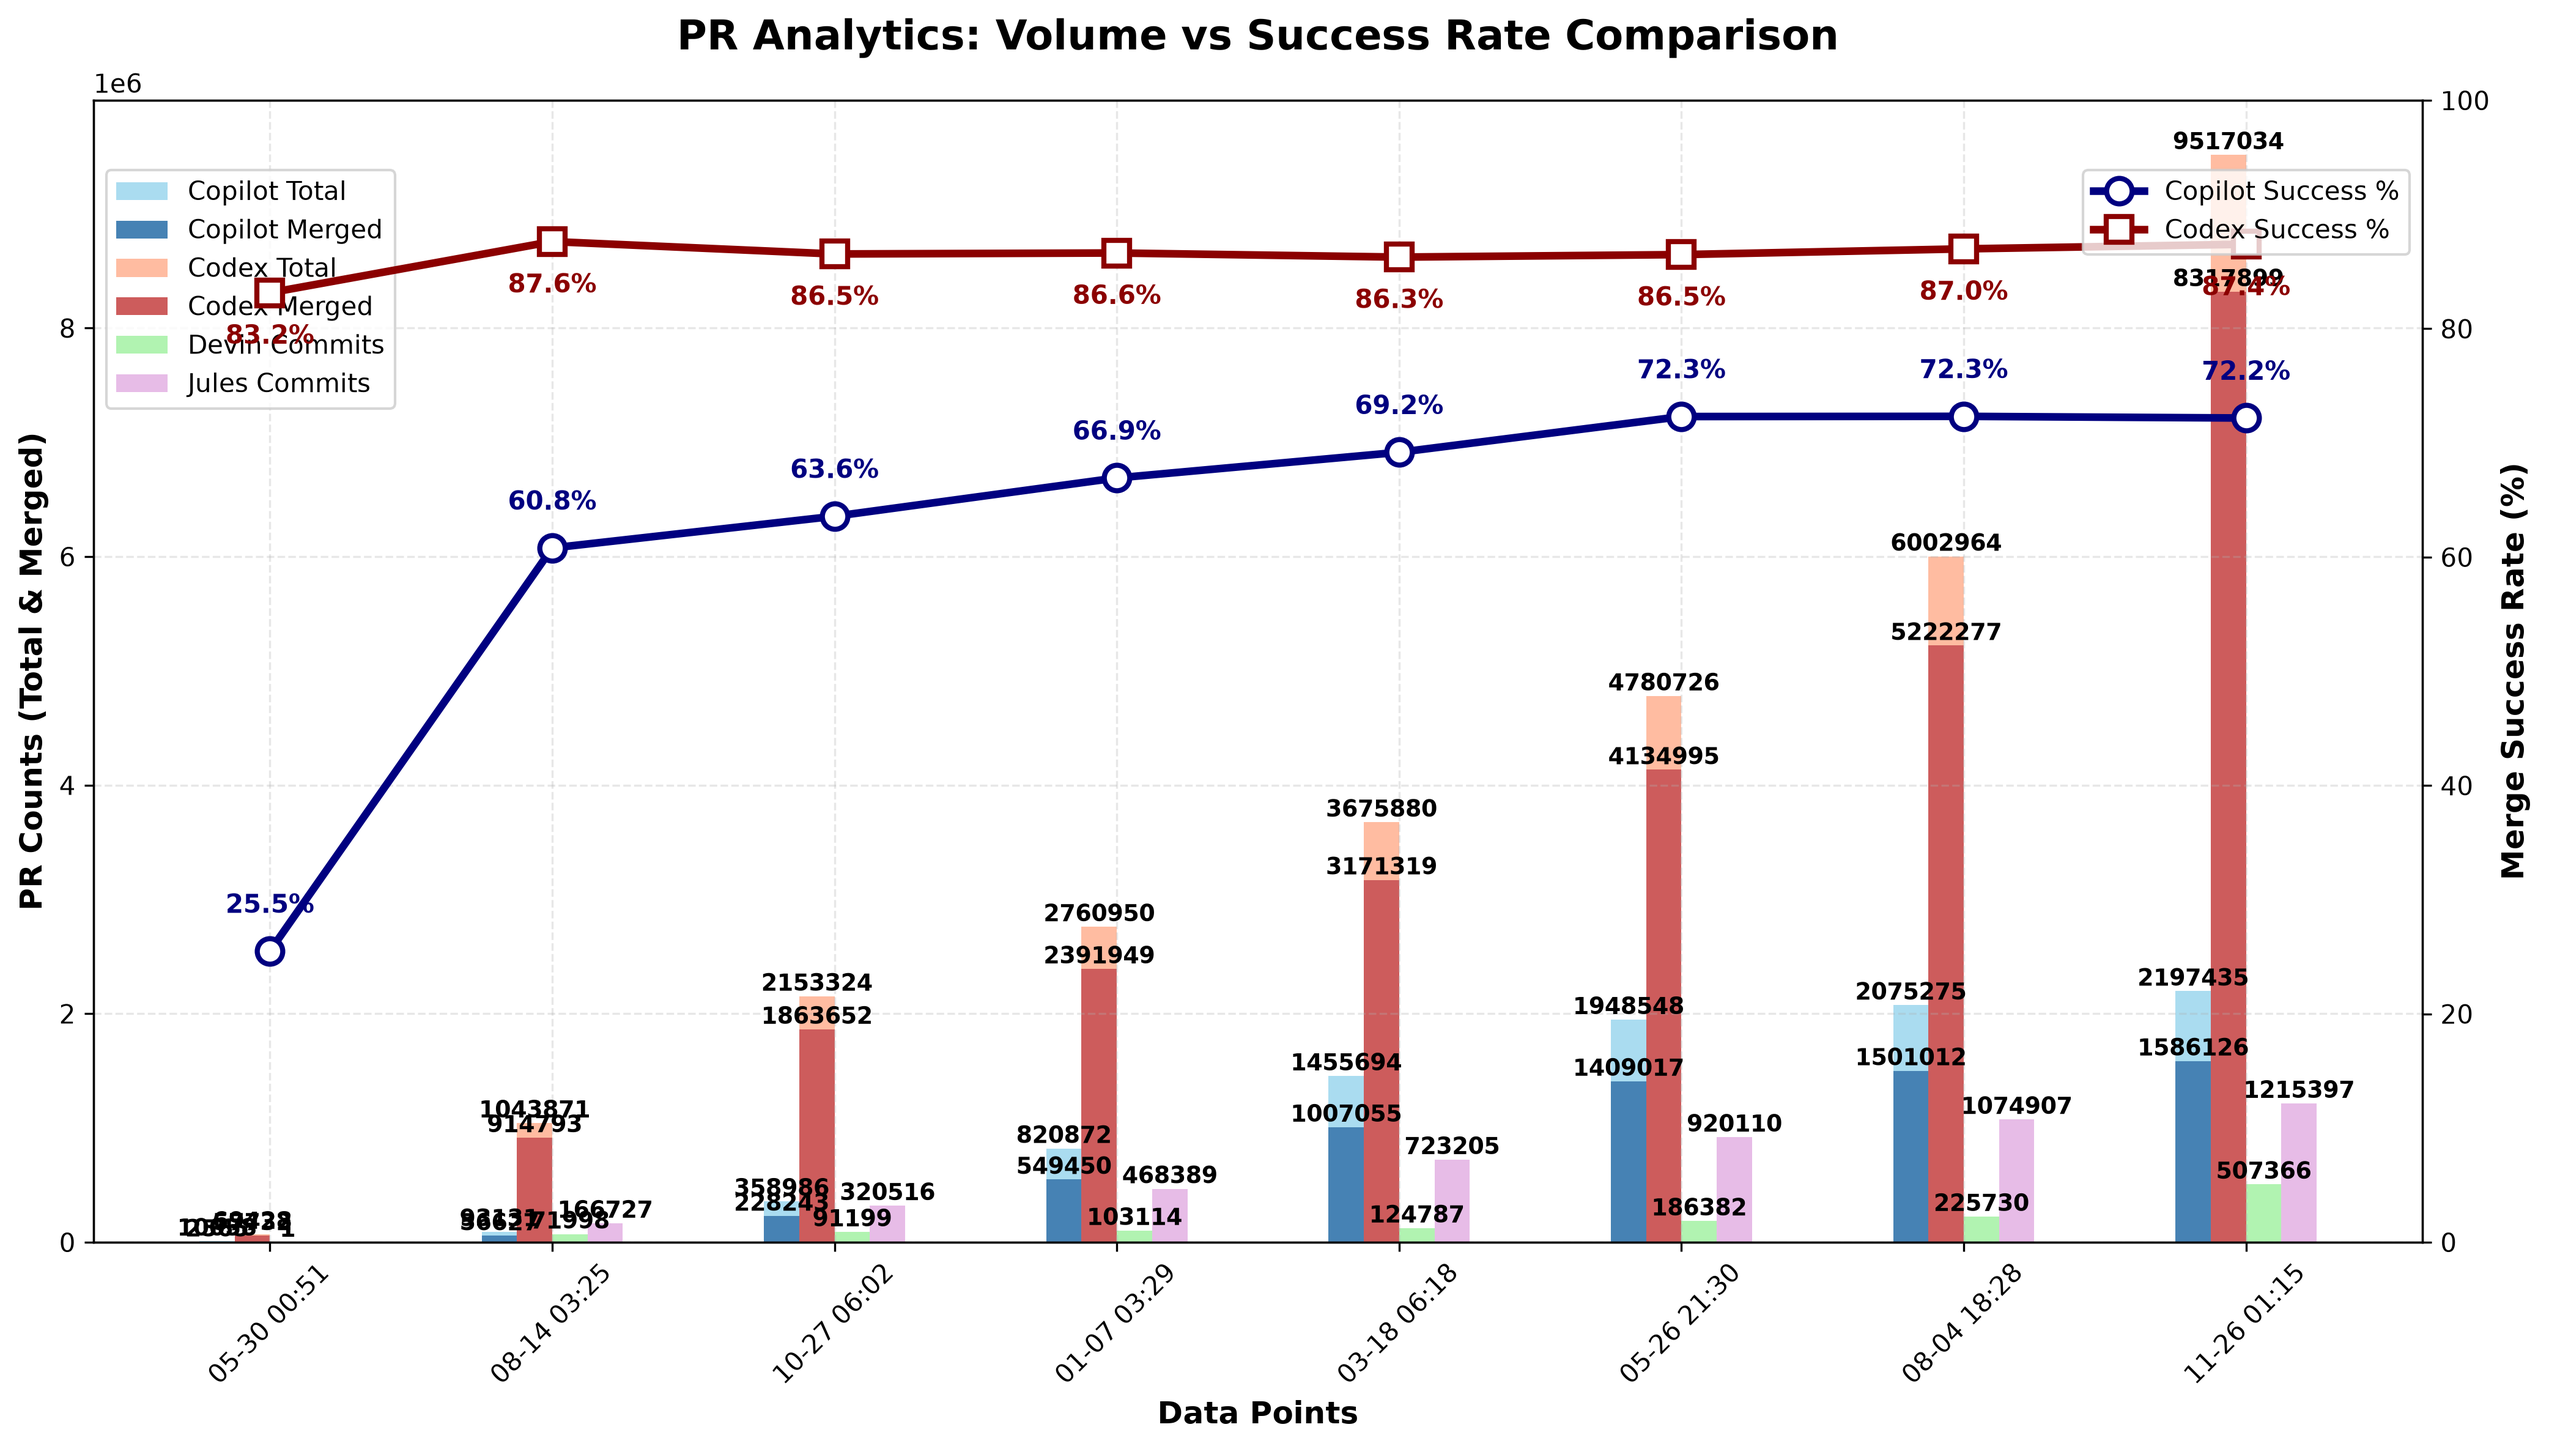
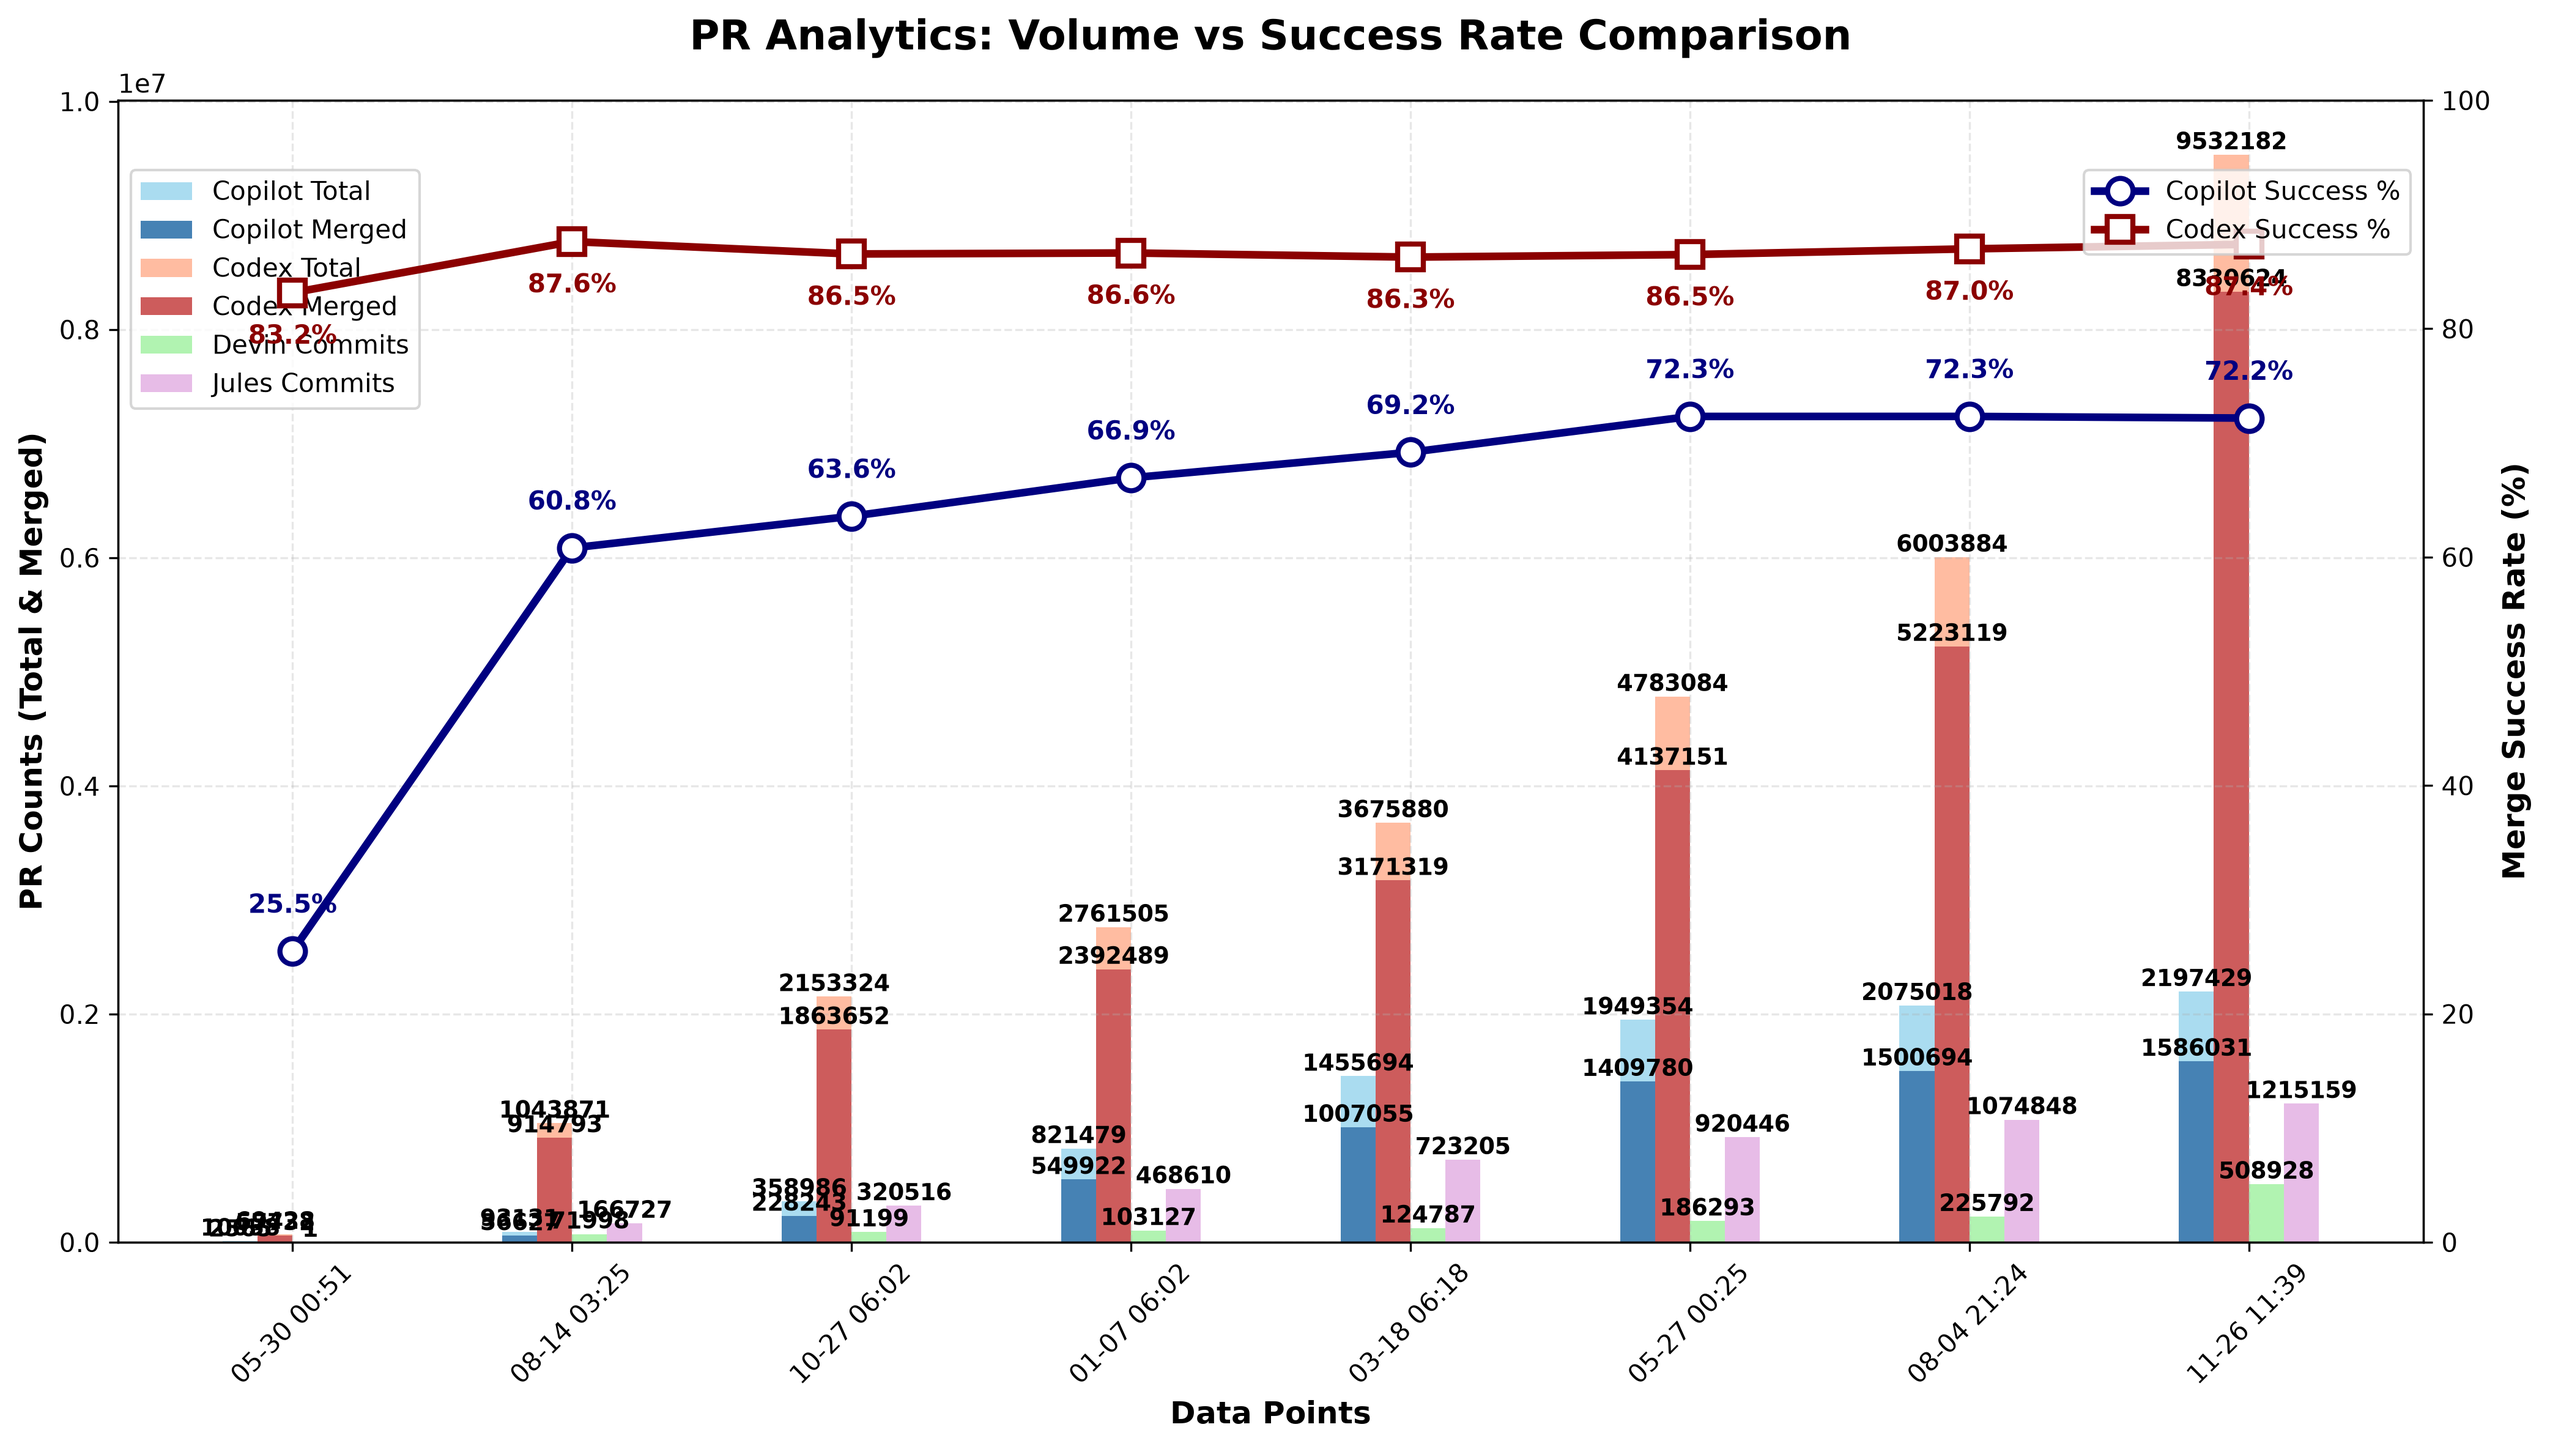
chore: update PR‑approval chart

diff --git a/docs/index.html b/docs/index.html
@@ -3930,6 +3930,7 @@
                         <td>N/A</td>
                         <td>N/A</td>
                         <td>N/A</td>
+                        <td>N/A</td>
                     </tr>
                     <tr>
                         <td>Codex</td>
@@ -7818,27 +7819,28 @@
                         <td>N/A</td>
                         <td>N/A</td>
                         <td>N/A</td>
+                        <td>N/A</td>
                     </tr>
                 <tr>
                         <td>Devin</td>
                         <td>N/A</td>
                         <td>N/A</td>
                         <td>N/A</td>
-                        <td>507,366</td>
+                        <td>508,928</td>
                     </tr>
                     <tr>
                         <td>Jules</td>
                         <td>N/A</td>
                         <td>N/A</td>
                         <td>N/A</td>
-                        <td>1,215,397</td>
+                        <td>1,215,159</td>
                     </tr>
                     </tbody>
             </table>
         </section>
 
         <footer>
-            <p>Last updated: <span id="last-updated">November 26, 2026 01:15 UTC</span></p>
+            <p>Last updated: <span id="last-updated">November 26, 2026 11:39 UTC</span></p>
             <p><a href="https://github.com/aavetis/ai-pr-watcher">View on GitHub</a></p>
         </footer>
     </div>

diff --git a/README.md b/README.md
@@ -19,7 +19,7 @@ Explore the GitHub search queries used:
 
 | Service | Total PRs | Merged PRs | Merge Rate | Total Commits |
 | ------- | --------- | ---------- | ---------- | ------------- |
-| Copilot | 2,197,435 | 1,586,126 | 72.18% | N/A           |
-| Codex   | 9,517,034 | 8,317,899 | 87.40% | N/A           |
-| Devin   | N/A       | N/A        | N/A        | 507,366 |
-| Jules   | N/A       | N/A        | N/A        | 1,215,397 |
+| Copilot | 2,197,429 | 1,586,031 | 72.18% | N/A           |
+| Codex   | 9,532,182 | 8,330,624 | 87.39% | N/A           |
+| Devin   | N/A       | N/A        | N/A        | 508,928 |
+| Jules   | N/A       | N/A        | N/A        | 1,215,159 |
